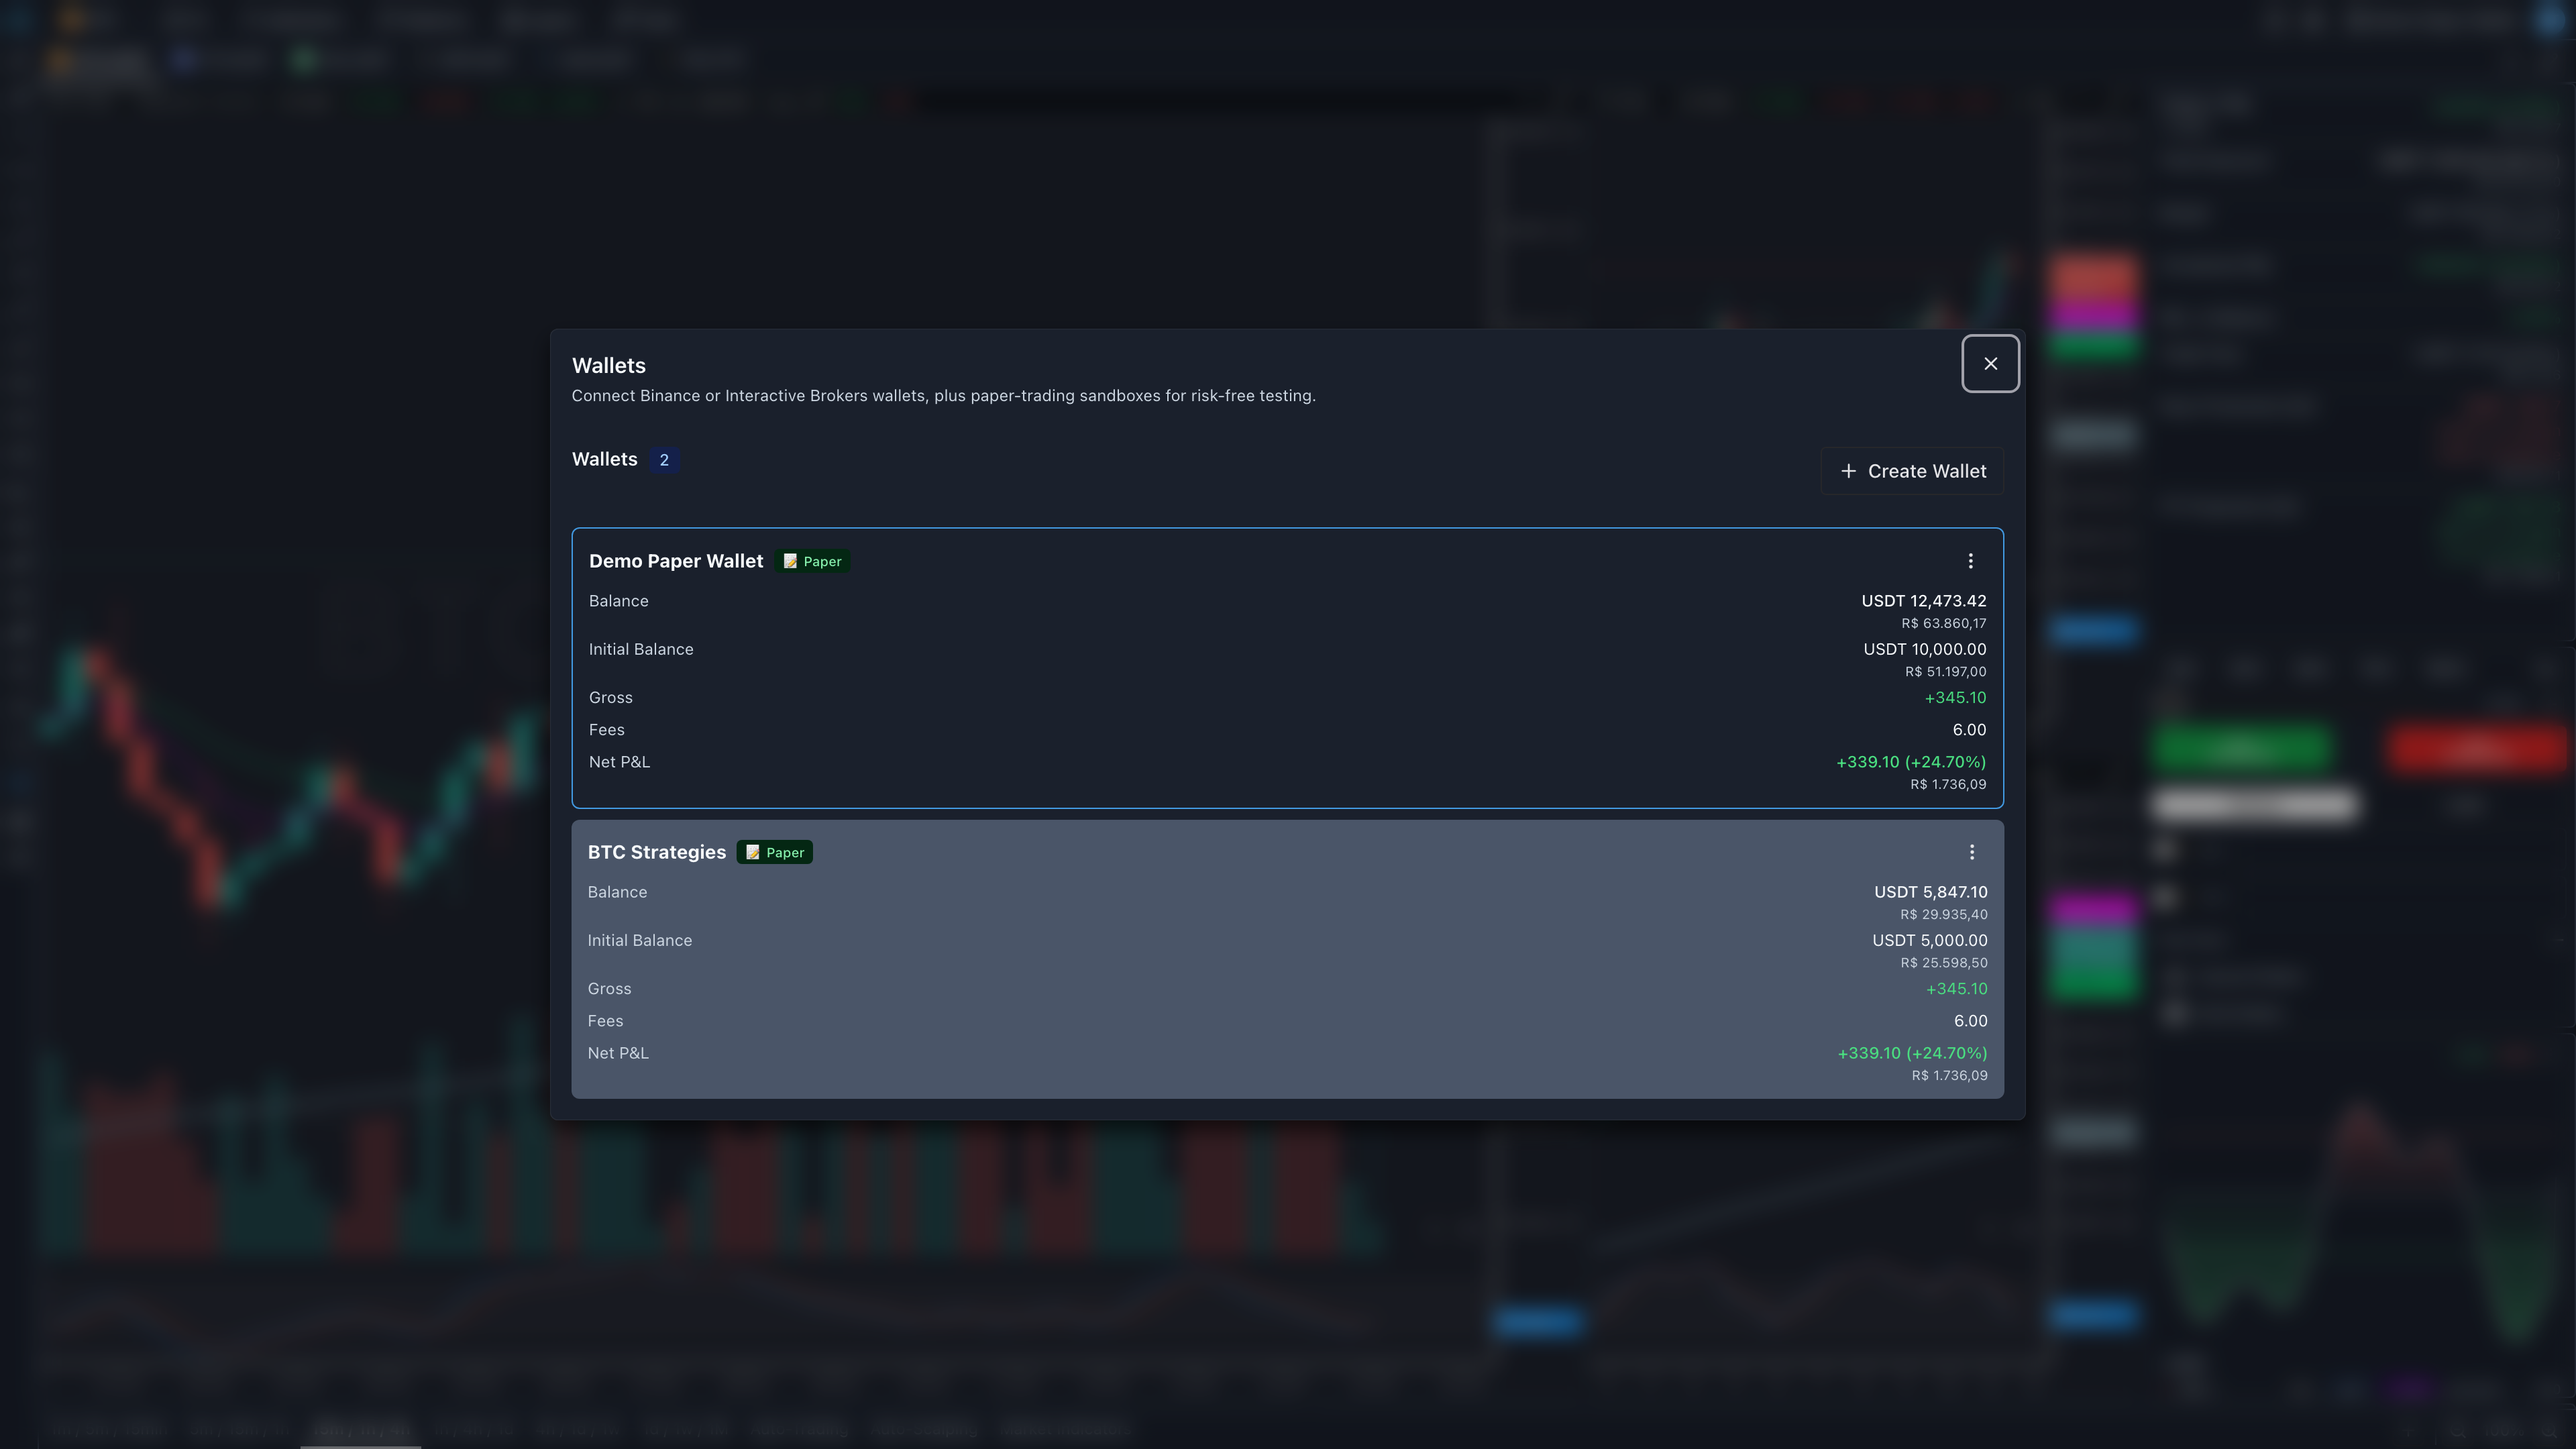
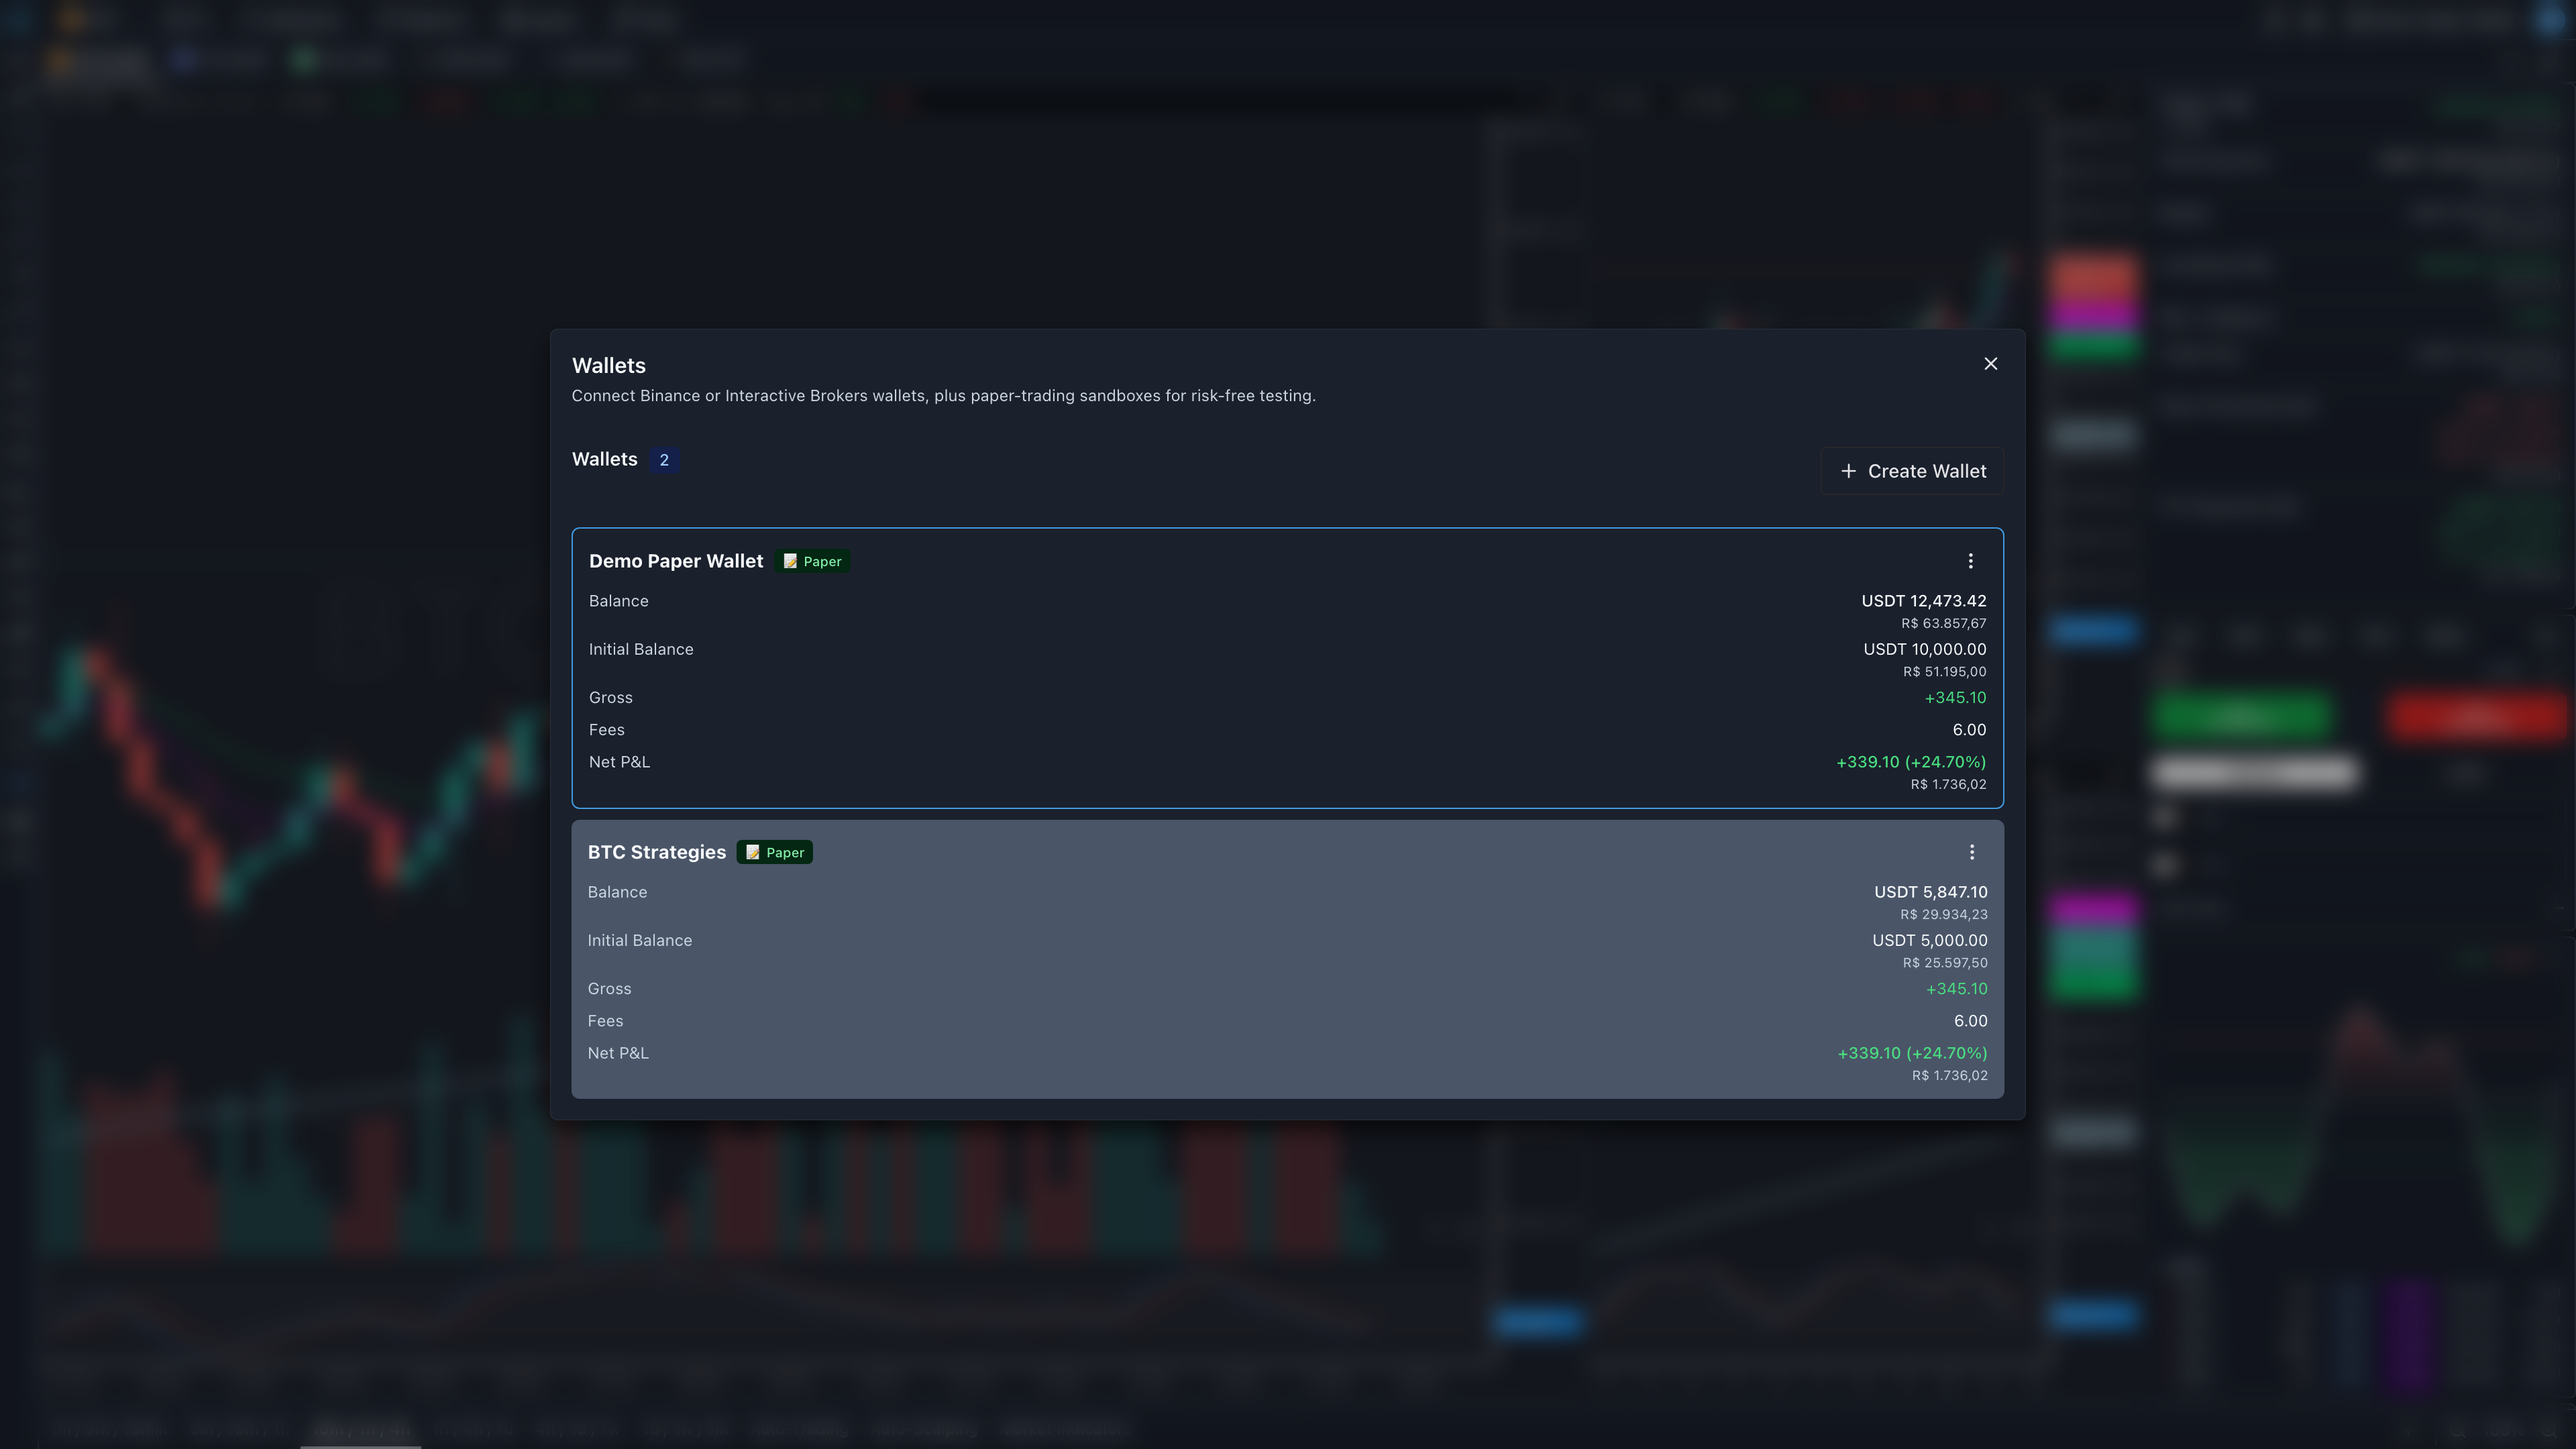
chore: refresh screenshots + drop Exchanges stat
- Regenerate all 12 marketing screenshots (deterministic-but-live fixtures):
  light-mode price scales, readable B&W price tags, portfolio sized to content,
  ticket Total Value with padding, dark scales behind the Settings modal, no
  focus ring on modal close buttons.
- Remove the 'Exchanges' item from the By the Numbers / Em Números section.

🤖 Generated with [Claude Code](https://claude.com/claude-code)

diff --git a/src/components/sections/Stats.tsx b/src/components/sections/Stats.tsx
@@ -7,7 +7,6 @@ const STAT_KEYS = [
   'strategies',
   'indicators',
   'languages',
-  'exchanges',
   'version',
 ] as const;
 
@@ -23,7 +22,7 @@ export const Stats = () => {
           </h2>
           <p className="text-lg text-gray-600 dark:text-gray-400">{t('subtitle')}</p>
         </div>
-        <div className="mx-auto grid max-w-4xl grid-cols-2 gap-8 sm:grid-cols-3 lg:grid-cols-6">
+        <div className="mx-auto grid max-w-4xl grid-cols-2 gap-8 sm:grid-cols-3 lg:grid-cols-5">
           {STAT_KEYS.map((key) => (
             <div key={key} className="text-center">
               <div className="mb-1 text-3xl font-bold text-gray-900 dark:text-white">
